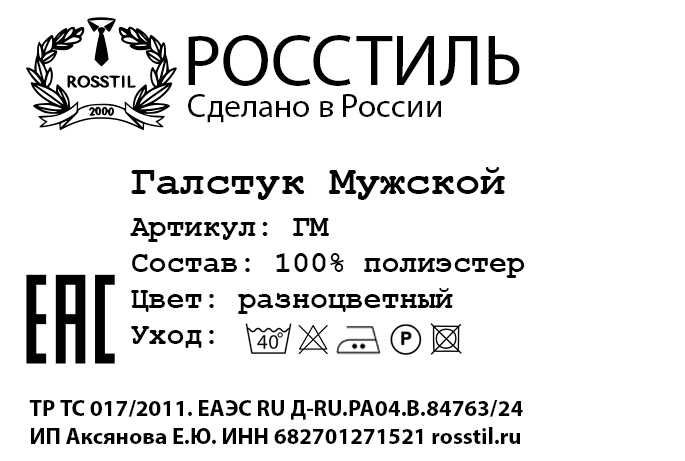
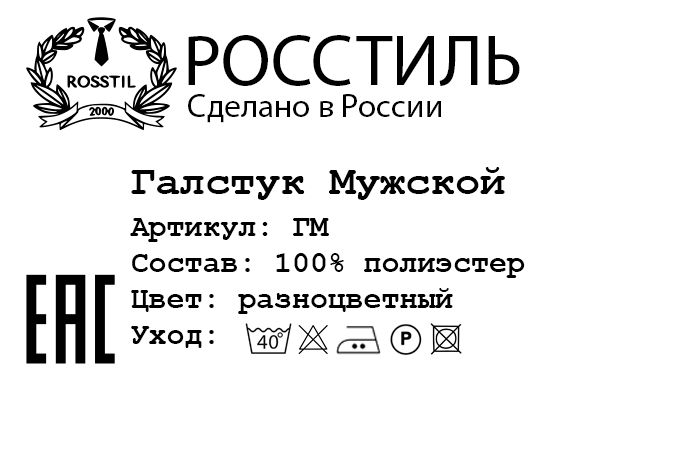
fix(label-printer): реквизиты продавца вынесены из PNG-шаблонов в label-footer.png вне git
Нижние две строки (ИП, ИНН, декларация, сайт) были нарисованы в шаблонах публичного репо.
Теперь шаблоны без них, а ImageGeneratorService.loadTemplateBuffer накладывает
templates/label-footer.png (в .gitignore) на низ шаблона при печати.

Changed region(s): [[0.0307, 0.8503, 0.7664, 0.9718]]

diff --git a/libs/label-printer-core/src/services/image-generator.service.ts b/libs/label-printer-core/src/services/image-generator.service.ts
@@ -1,5 +1,7 @@
 import bwipjs from 'bwip-js/node'
 import { Jimp } from 'jimp'
+import { existsSync, readFileSync } from 'node:fs'
+import { dirname, join } from 'node:path'
 import type { LabelConfig } from '../config/config.schema'
 import { Logger } from '../utils/logger'
 
@@ -96,6 +98,26 @@ export class ImageGeneratorService {
       logger.error('Failed to generate GTIN barcode', { error, gtin })
       throw error
     }
+  }
+
+  /**
+   * Прочитать шаблон этикетки и наложить на его низ файл реквизитов продавца.
+   *
+   * Реквизиты (ИП, ИНН, декларация, сайт) не хранятся в публичном репозитории: лежат рядом с
+   * шаблоном как `label-footer.png` (в .gitignore). Если файла нет — шаблон возвращается как есть
+   * (этикетка без реквизитов; для боевой печати файл обязателен).
+   */
+  static async loadTemplateBuffer(templatePath: string): Promise<Buffer> {
+    const templateBuffer = readFileSync(templatePath)
+    const footerPath = join(dirname(templatePath), 'label-footer.png')
+    if (!existsSync(footerPath)) {
+      Logger.getInstance().warn('Файл реквизитов label-footer.png не найден — этикетка без реквизитов', { footerPath })
+      return templateBuffer
+    }
+    const template = await Jimp.read(templateBuffer)
+    const footer = await Jimp.read(readFileSync(footerPath))
+    template.composite(footer, 0, template.bitmap.height - footer.bitmap.height)
+    return await template.getBuffer('image/png')
   }
 
   /**

diff --git a/apps/label-printer-desktop/main/ipc/print.handlers.ts b/apps/label-printer-desktop/main/ipc/print.handlers.ts
@@ -18,7 +18,6 @@ import {
 } from '@letar/label-printer-core'
 import type { IpcMainInvokeEvent } from 'electron'
 import { ipcMain } from 'electron'
-import { readFileSync } from 'fs'
 import type { ValidationResult } from '../../shared/types'
 import { settingsService } from '../services/settings.service'
 import { getLogger } from '../utils/logger-helper'
@@ -127,7 +126,7 @@ export function registerPrintHandlers(): void {
       const labelConfig = await settingsService.getLabelConfig()
 
       // BITMAP режим — генерация PNG, печать через Windows GDI
-      const templateBuffer = readFileSync(labelConfig.templatePath)
+      const templateBuffer = await ImageGeneratorService.loadTemplateBuffer(labelConfig.templatePath)
 
       // Генерируем изображение этикетки (без retry — CPU-bound операция)
       const imageBuffer = await ImageGeneratorService.generateLabelImage(

diff --git a/apps/label-printer-desktop/main/ipc/printer.handlers.ts b/apps/label-printer-desktop/main/ipc/printer.handlers.ts
@@ -14,7 +14,7 @@ import {
 } from '@letar/label-printer-core'
 import { exec as execCb } from 'child_process'
 import { ipcMain } from 'electron'
-import { readdirSync, readFileSync } from 'fs'
+import { readdirSync } from 'fs'
 import { promisify } from 'util'
 import type { PrinterStatus, PrintResult, TemplateInfo } from '../../shared/types'
 import { settingsService } from '../services/settings.service'
@@ -194,7 +194,7 @@ export function registerPrinterHandlers(): void {
 
         // Читаем шаблон этикетки
         logger.info('Reading template...')
-        const templateBuffer = readFileSync(labelConfig.templatePath)
+        const templateBuffer = await ImageGeneratorService.loadTemplateBuffer(labelConfig.templatePath)
         logger.info('Template read', { size: templateBuffer.length })
 
         // Генерируем изображение этикетки

diff --git a/libs/label-printer-core/src/services/image.service.ts b/libs/label-printer-core/src/services/image.service.ts
@@ -4,6 +4,7 @@ import * as path from 'path'
 import type { LabelConfig } from '../config/config.schema'
 import type { MarkingCode } from '../models/marking-code.model'
 import { BarcodeService } from './barcode.service'
+import { ImageGeneratorService } from './image-generator.service'
 
 // Тип изображения Jimp
 type JimpImage = Awaited<ReturnType<typeof Jimp.read>>
@@ -31,7 +32,7 @@ export class ImageService {
     }
 
     // Load template
-    const template: JimpImage = await Jimp.read(config.templatePath)
+    const template: JimpImage = await Jimp.read(await ImageGeneratorService.loadTemplateBuffer(config.templatePath))
 
     // Generate and add DataMatrix
     if (config.elements.datamatrix.enabled) {

diff --git a/libs/label-printer-core/src/services/printer.service.windows.ts b/libs/label-printer-core/src/services/printer.service.windows.ts
@@ -258,7 +258,7 @@ export class WindowsPrinterService {
       let templateBuffer: Buffer | null = null
       if (this.labelConfig.templatePath && fs.existsSync(this.labelConfig.templatePath)) {
         this.logger.info('Loading template image', { path: this.labelConfig.templatePath })
-        templateBuffer = fs.readFileSync(this.labelConfig.templatePath)
+        templateBuffer = await ImageGeneratorService.loadTemplateBuffer(this.labelConfig.templatePath)
       } else {
         this.logger.info('No template configured, using white background')
       }

diff --git a/apps/label-printer-desktop/README.md b/apps/label-printer-desktop/README.md
@@ -65,6 +65,12 @@ Electron desktop приложение для печати этикеток "Че
 ошибку с перечнем недостающих полей, чтобы этикетка без реквизитов не ушла в печать. Значения
 подставляются при сборке, поэтому после изменения приложение нужно пересобрать.
 
+**Печатная этикетка.** PNG-шаблоны в `templates/` — без нижних строк с реквизитами. Эти строки
+лежат в `templates/label-footer.png` (в `.gitignore`), и при печати `ImageGeneratorService.loadTemplateBuffer`
+накладывает их на низ шаблона. Файла нет — этикетка печатается без реквизитов и в лог идёт
+предупреждение. Клонировали репозиторий — положите `label-footer.png` рядом с шаблонами (резервная
+копия — в приватных доках, `.claude/private/label-footer.png`). Полоса: 685×81 px, от y=380.
+
 ## Разработка
 
 ```bash
